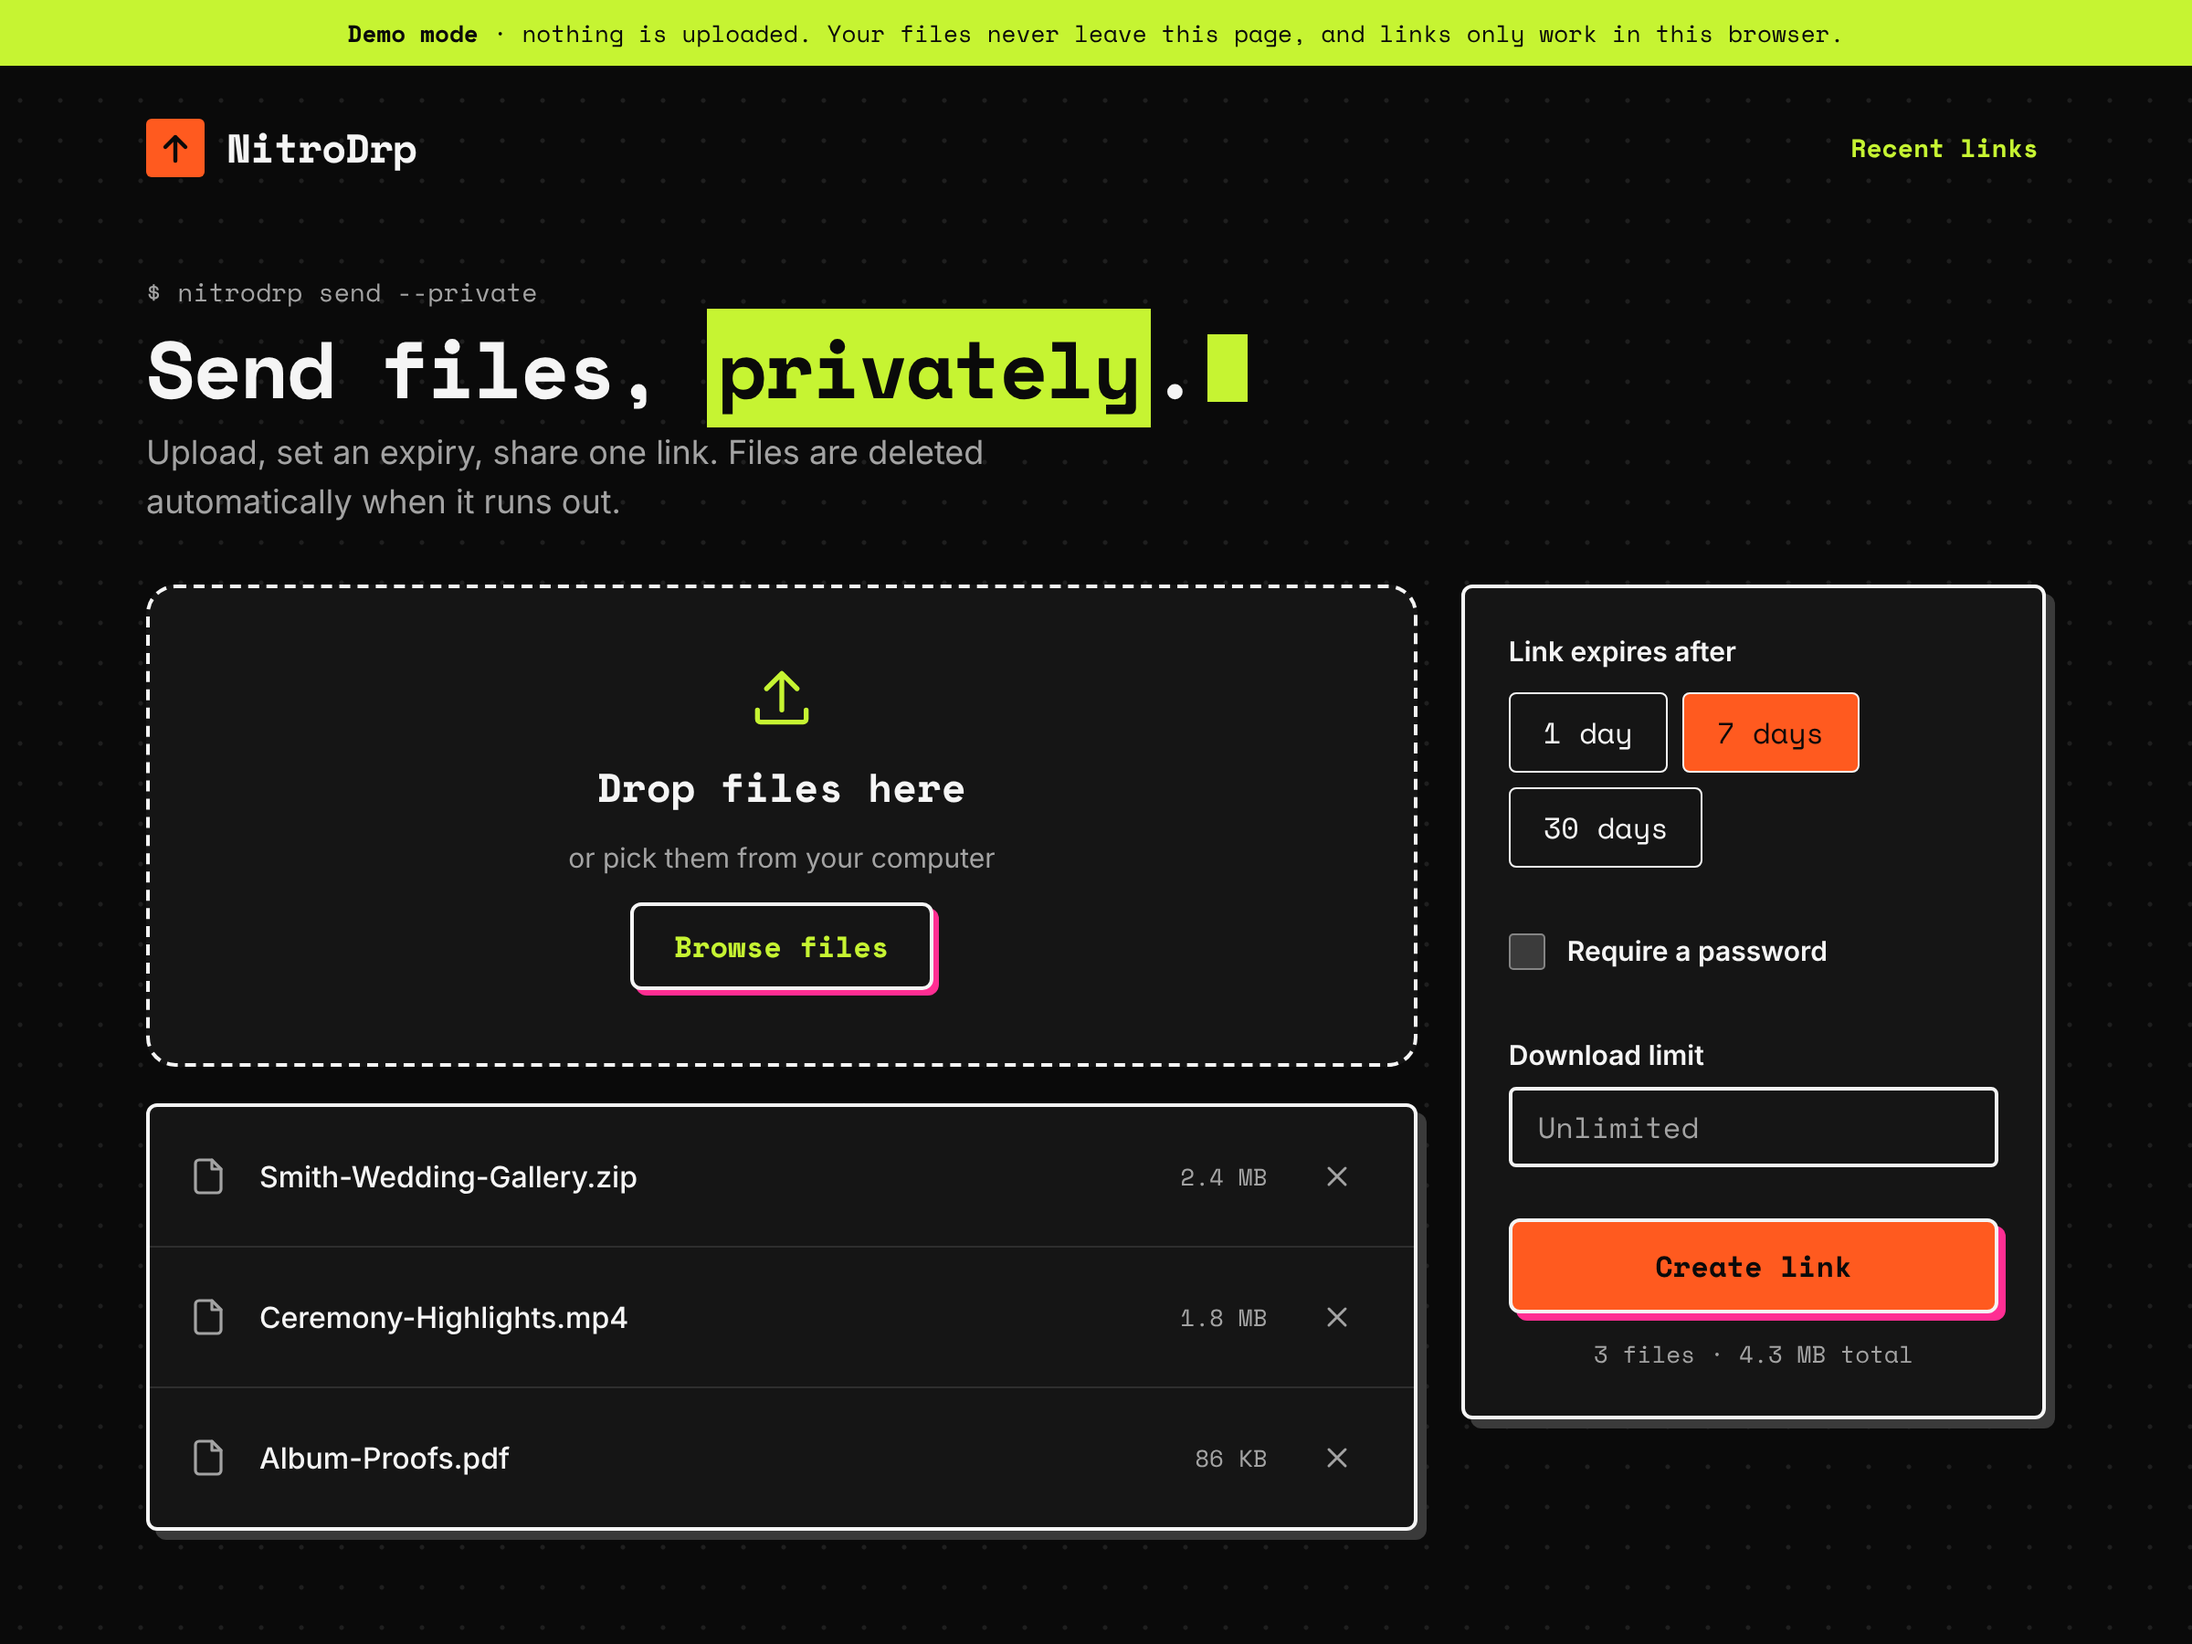
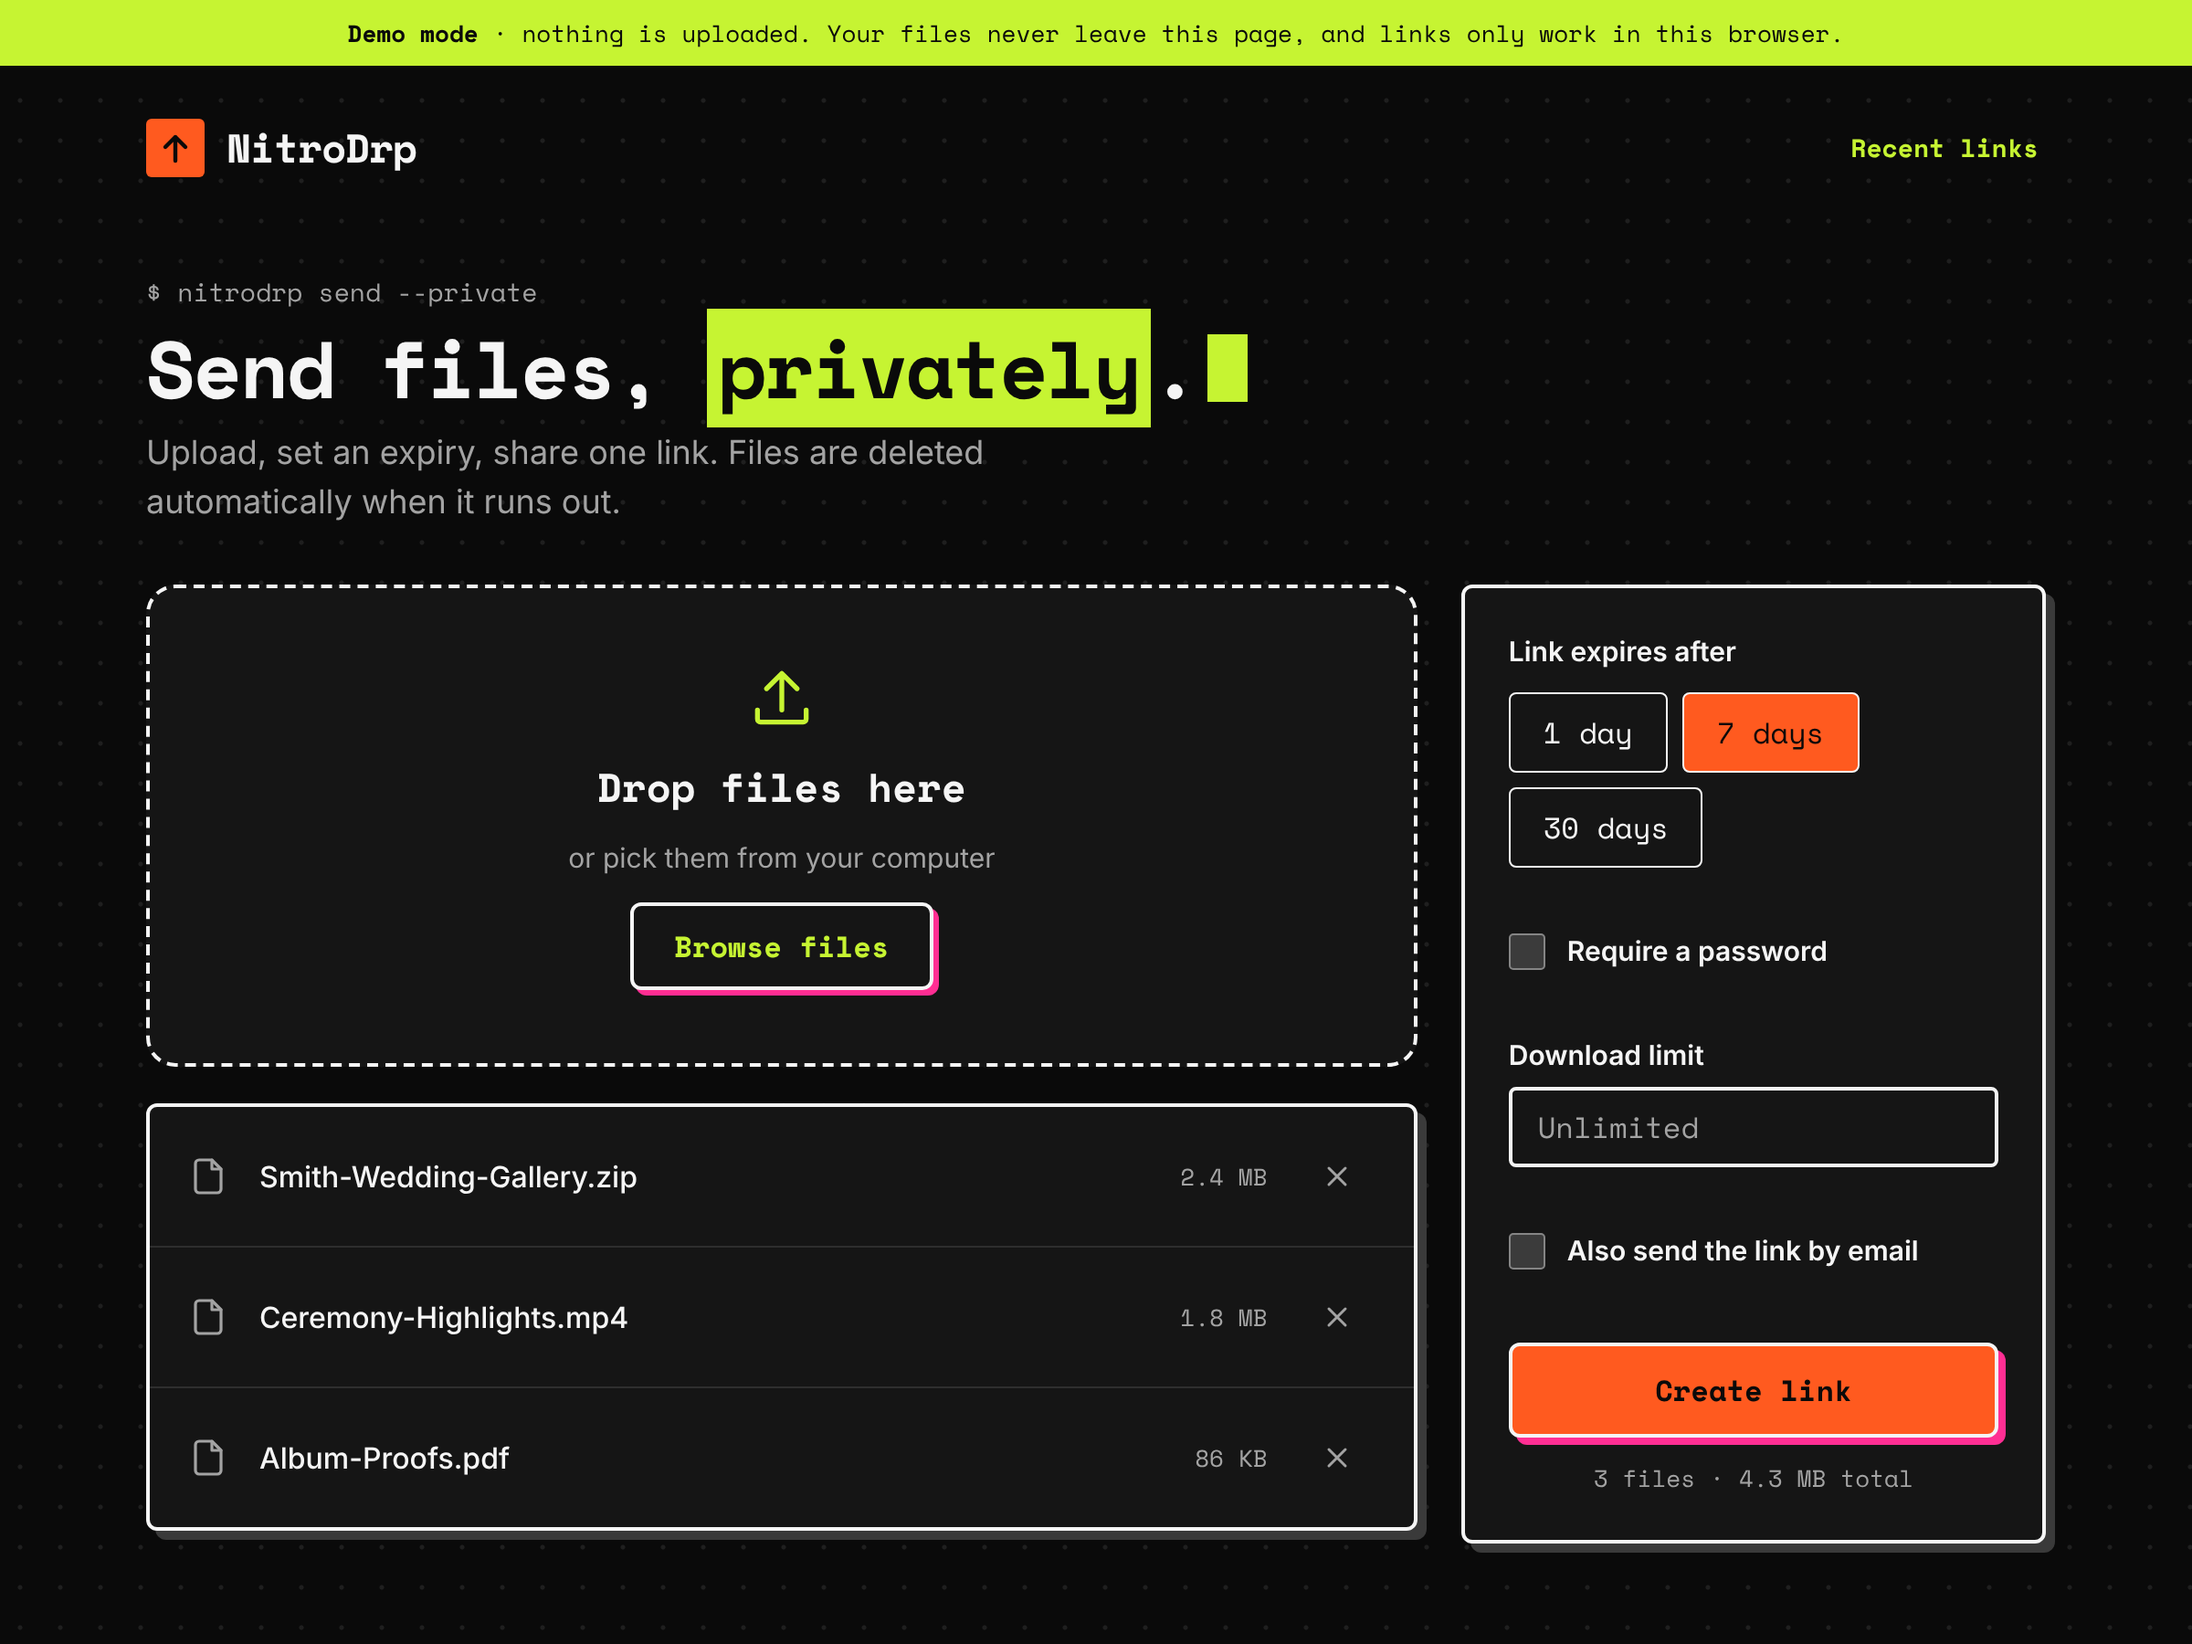
email screenshot

Changed region(s): [[0.6562, 0.7156, 0.9375, 0.9644]]

diff --git a/web/src/styles.css b/web/src/styles.css
@@ -151,7 +151,7 @@ html[data-embed] h1 { font-size: 32px; }
 html[data-embed] #root { min-height: 0; } /* an embedded page must be able to shrink to its content */
 
 /* Send by email */
-.two { display: grid; grid-template-columns: 1fr 1fr; gap: 14px; }
+.two { display: grid; grid-template-columns: 1fr 1fr; gap: 14px; align-items: end; }
 @media (max-width: 560px) { .two { grid-template-columns: 1fr; } }
 textarea.input { resize: vertical; min-height: 44px; font: inherit; }
 .email-card { border-top: 1px solid var(--line); padding-top: 20px; }

diff --git a/README.md b/README.md
@@ -15,6 +15,8 @@ browser, so nothing is uploaded. ([How the demo works](docs/DEMO.md))
 | ![Upload screen: drop files, choose expiry, password and download limit](docs/screenshots/1-upload.png) | ![Link created, with a summary of its settings](docs/screenshots/2-link-created.png) |
 | **Receive** | **On a phone** |
 | ![Recipient page with download-all and per-file buttons](docs/screenshots/3-download.png) | ![The recipient page on a phone](docs/screenshots/4-mobile.png) |
+| **Email the link (optional)** | |
+| ![Optional email section on the upload screen](docs/screenshots/5-email.png) | |
 
 ## Highlights
 
